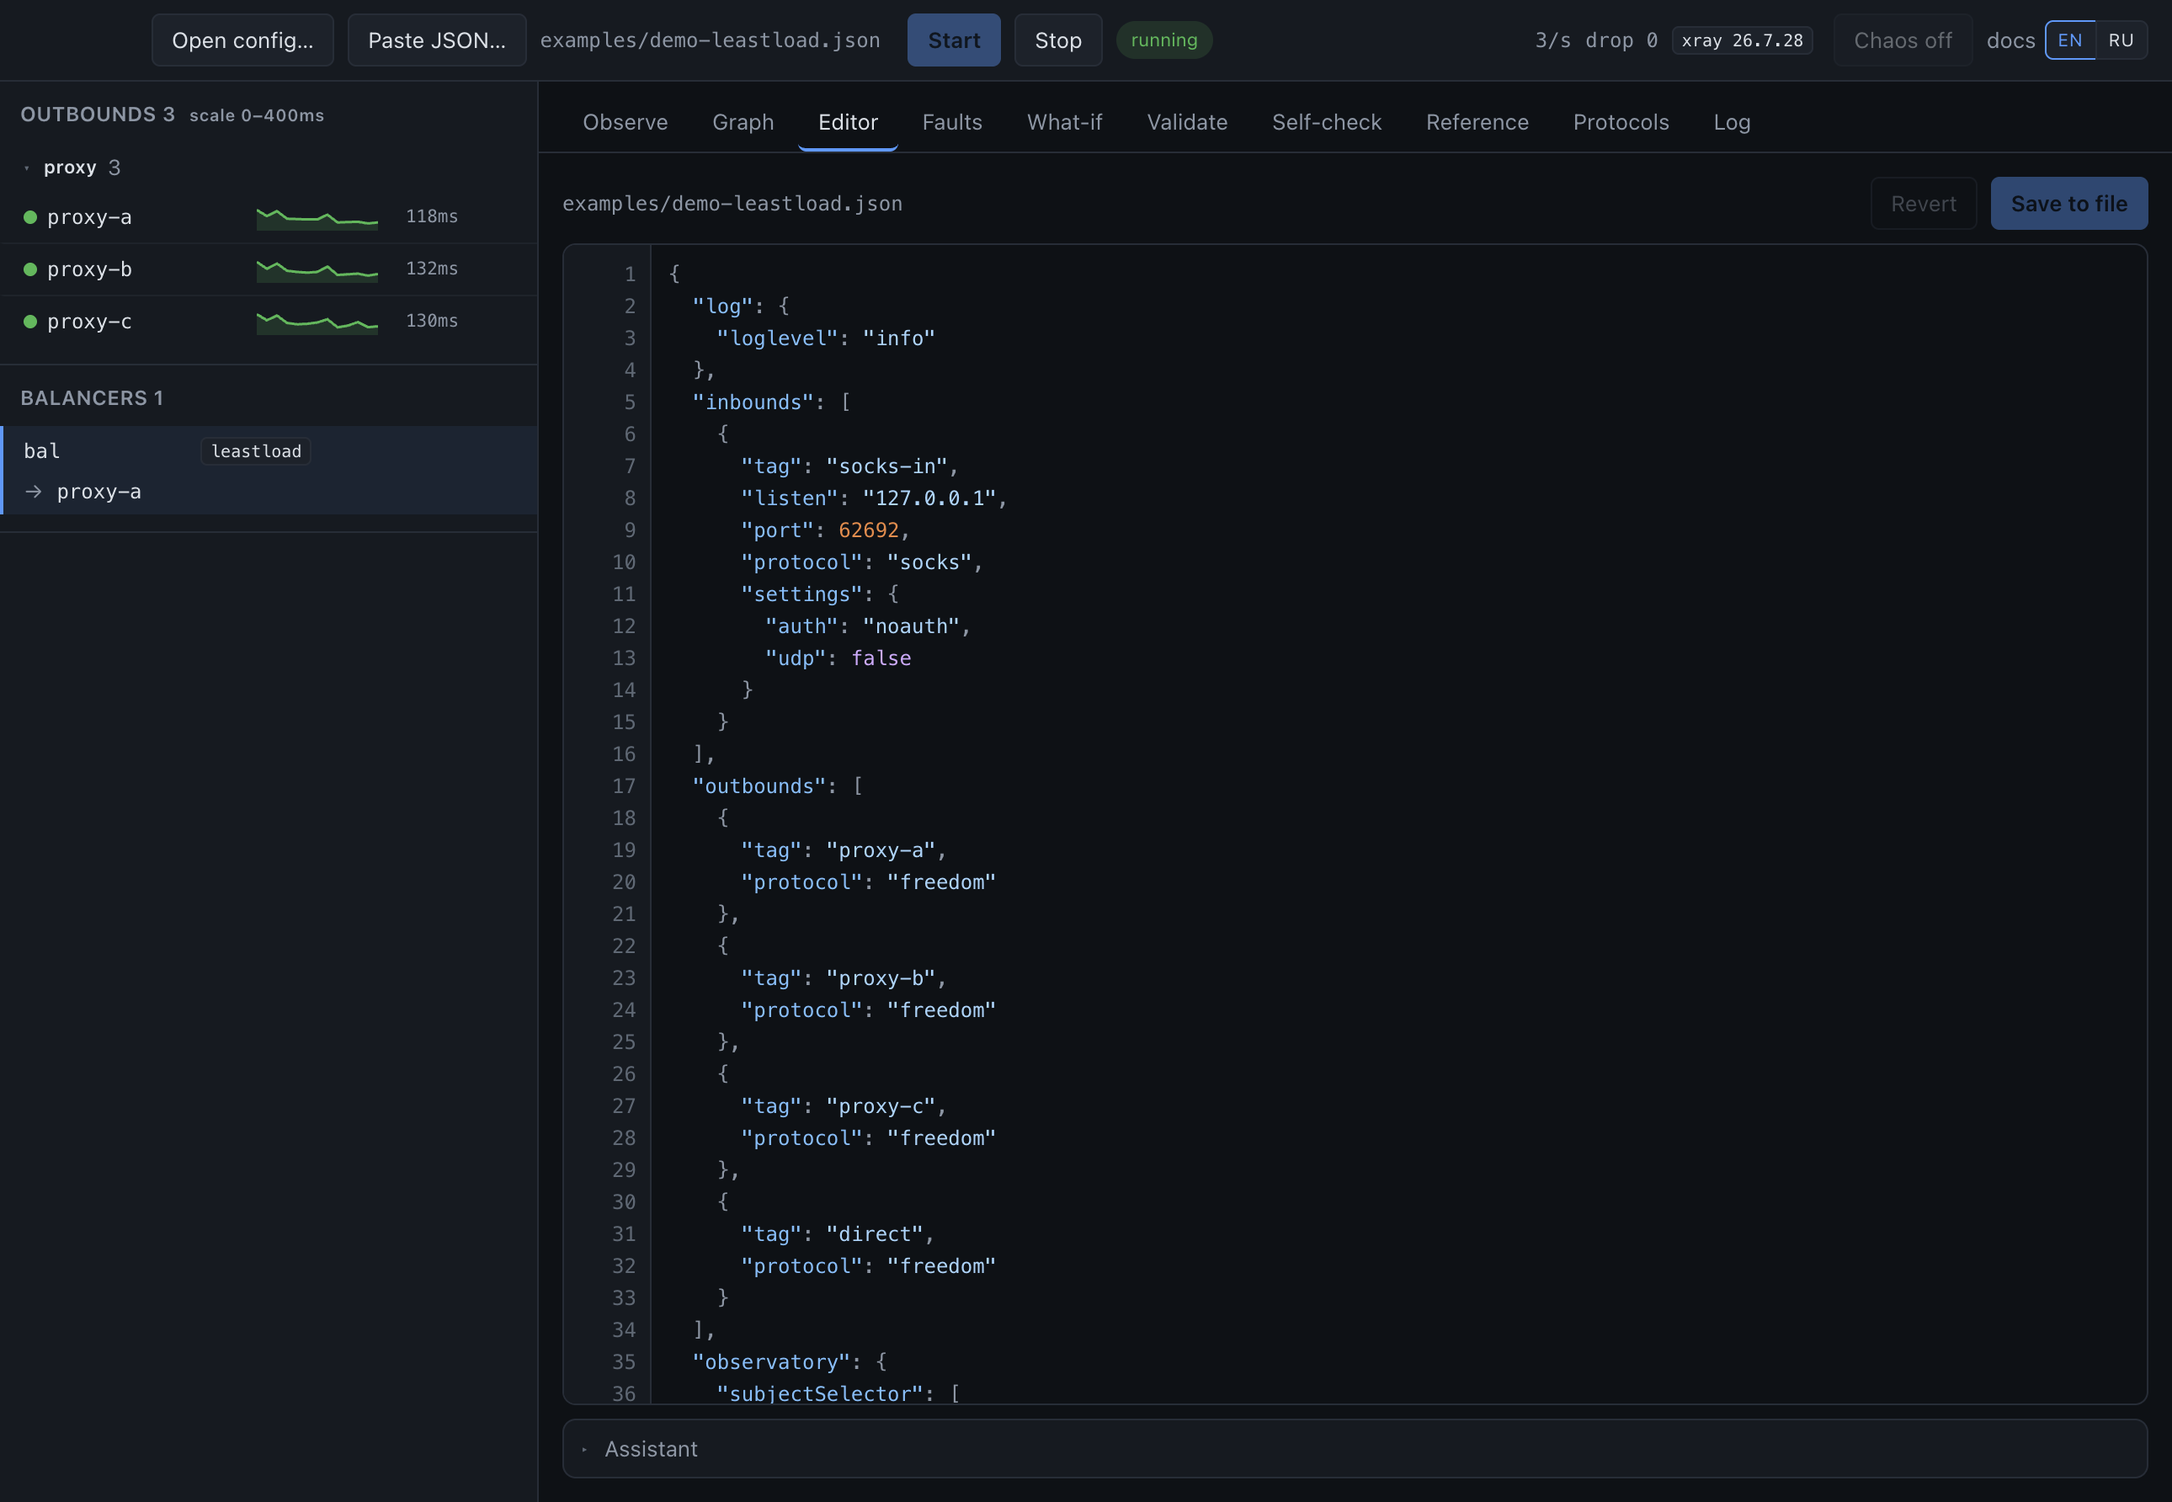
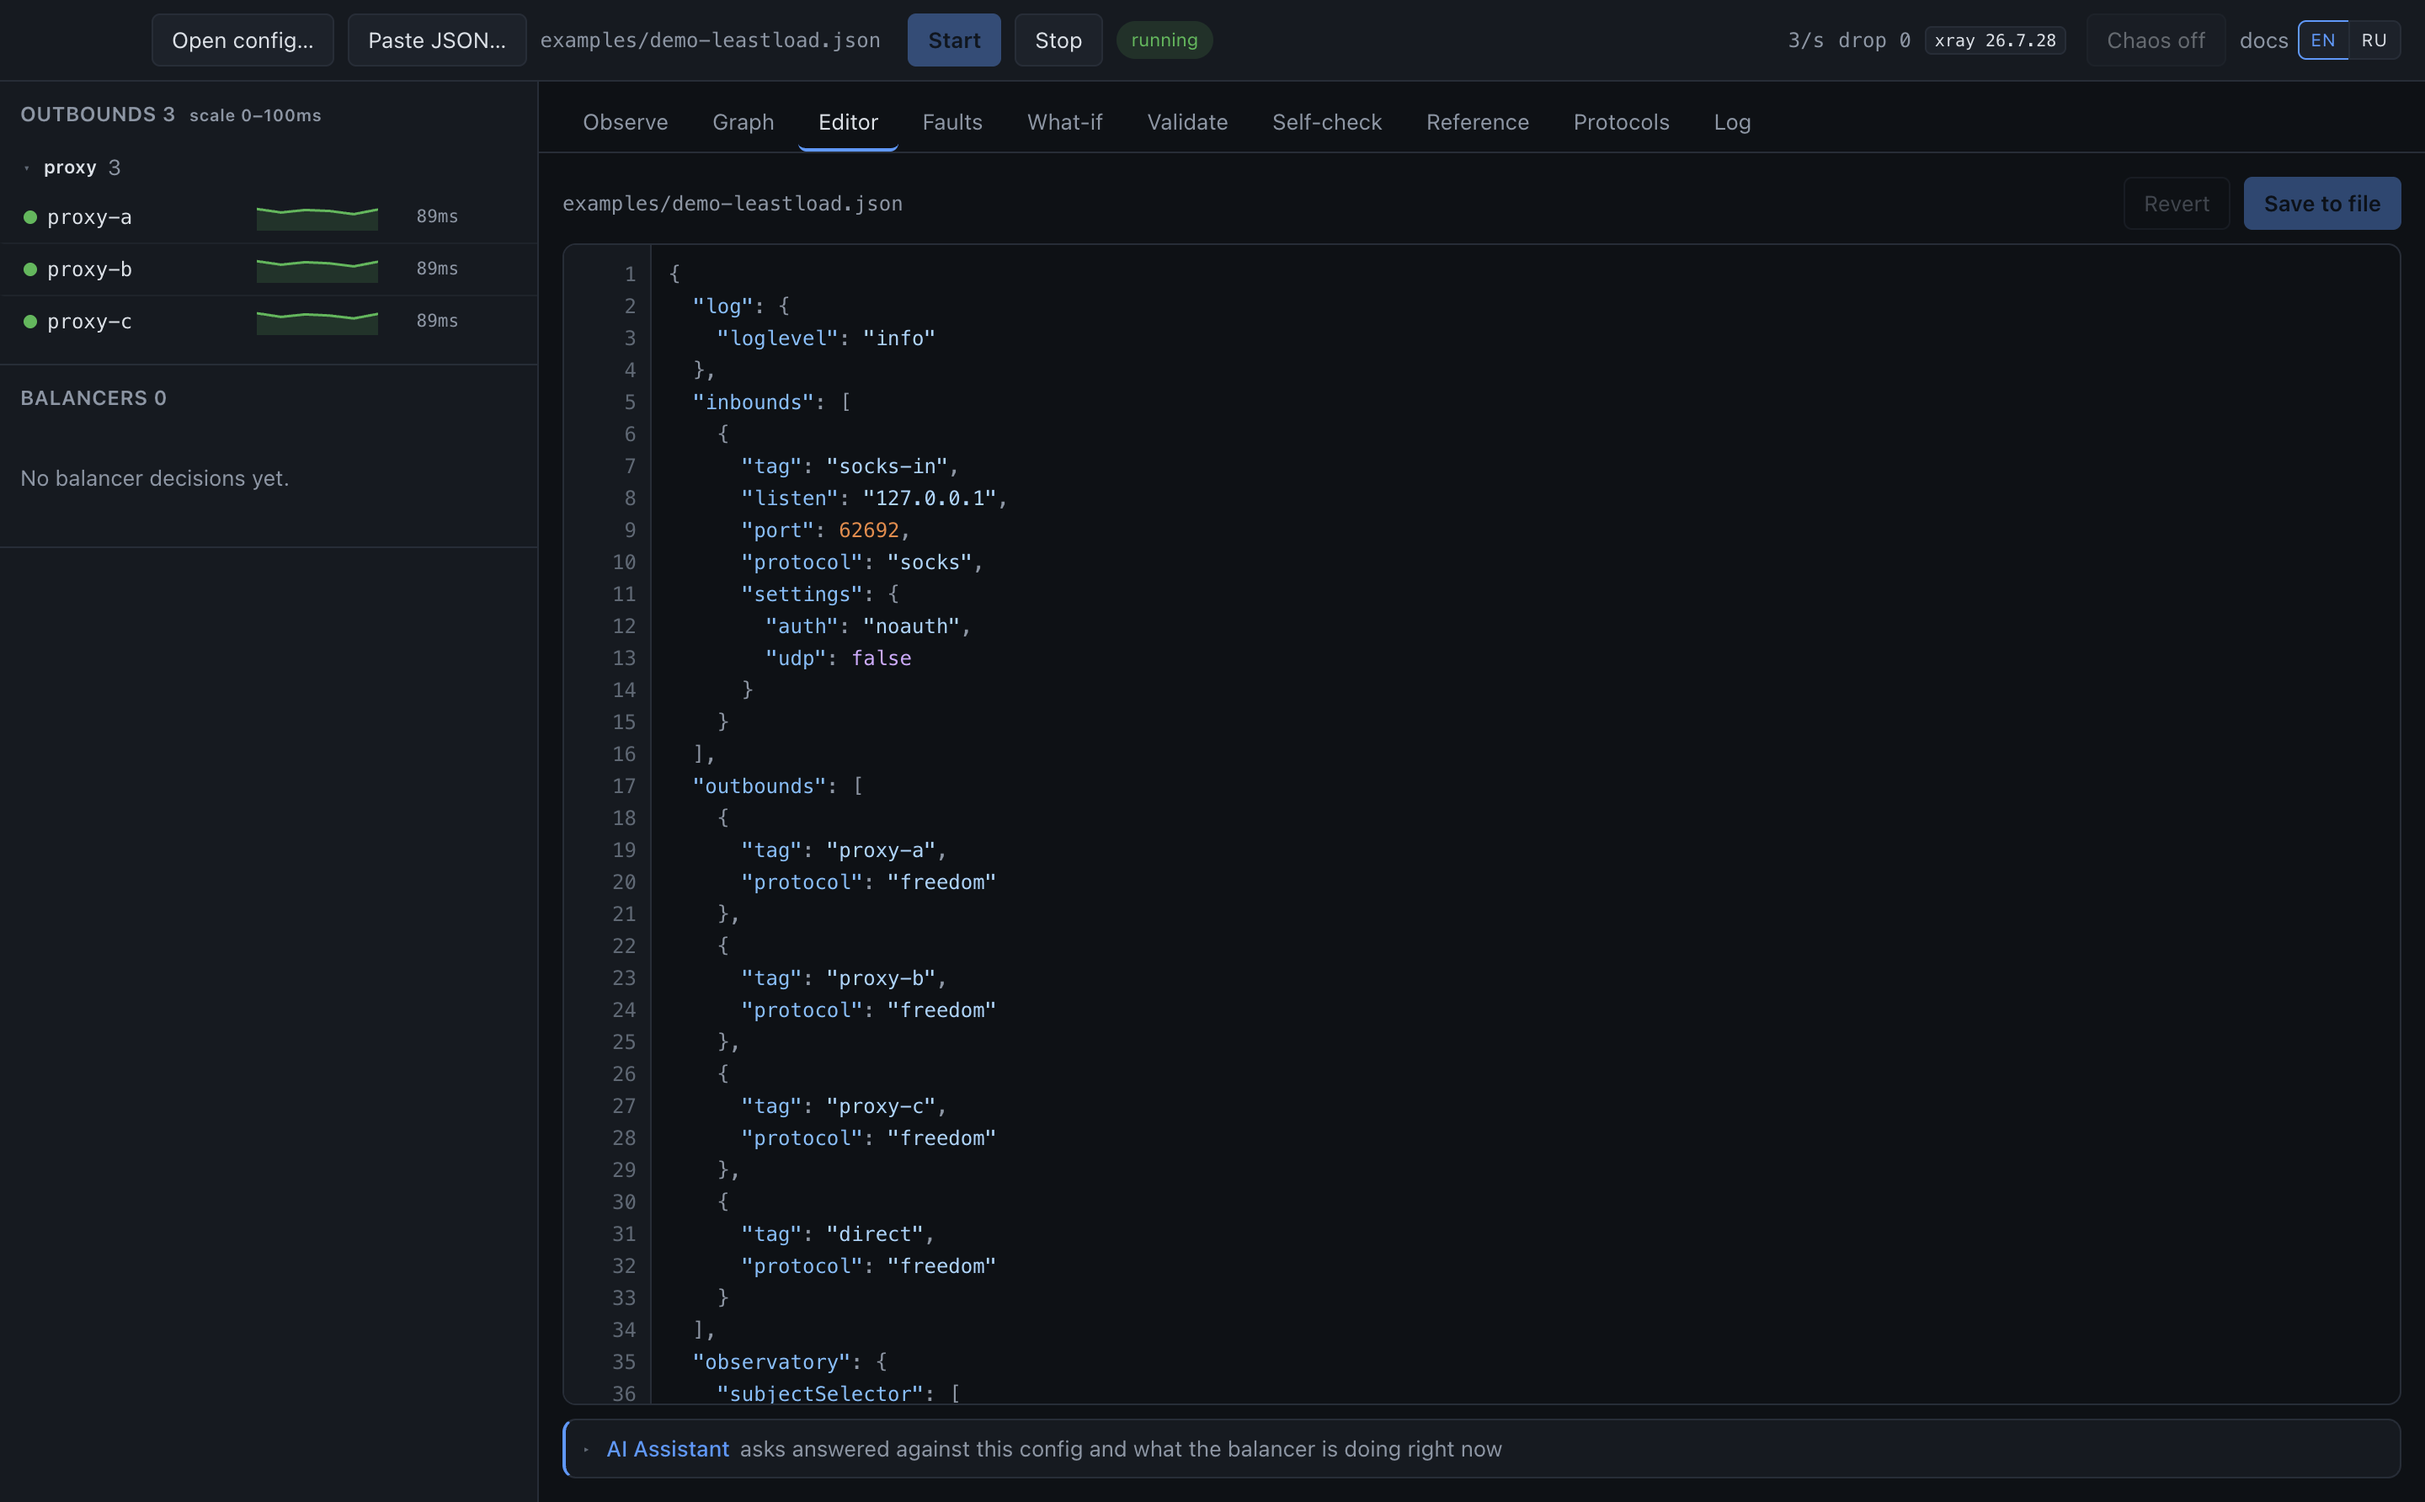
Call it AI Assistant, and make it look like something you can open
Collapsed, the panel was a row of dim grey reading "▸ Assistant" along the bottom of the
Editor — directly under a tall block of monospace, which is the easiest place in the
window for a row to be read as a footer and never clicked. It stays collapsed by
default, so for anyone who did not click it the feature did not exist.

It now carries an accent edge and an accented name while closed, and says what it is FOR
rather than only what it is called: it already holds the config in front of you and the
live state — which outbounds the observatory calls alive, their deviation, why the
balancer rejected each candidate, the faults you have armed. That is the part a name
cannot carry, and it is the reason to open it: the questions people actually have are
answerable without pasting anything anywhere.

Opening it drops both the edge and the accent. Inside, the panel is the subject and does
not need to advertise. A "needs an API key" chip appears only when there is no key, so
someone who has one is told nothing.

The tour in both READMEs now describes it too. It was mentioned only in the privacy
section, where it appears as a caveat about outbound traffic — which is a strange way to
learn that a feature exists.

Also traced: the value a shot script returns. A capture that lands on the wrong panel
was indistinguishable from one whose script threw, and both look like a correct
screenshot of something else — which is how three attempts at re-capturing the Editor
[…]

diff --git a/app/src/renderer/src/panels/AiChat.tsx b/app/src/renderer/src/panels/AiChat.tsx
@@ -164,11 +164,25 @@ export function AiChat({
 
   return (
     <section className={`ai ${open ? 'open' : ''}`}>
+      {/* Collapsed, this bar is the only thing that says the assistant exists, so it
+          says what the assistant is FOR rather than only what it is called. A row
+          reading "▸ Assistant" in dim grey is indistinguishable from a section nobody
+          needs to open, and this one is worth opening precisely because of the part a
+          name cannot carry: it already has the config and the live probe results, so
+          the questions people actually have are answerable without pasting anything. */}
       <button className="ai-head" onClick={() => setOpen((v) => !v)}>
         <span className="caret">{open ? '▾' : '▸'}</span>
-        <span>Assistant</span>
+        <span className="ai-title">AI Assistant</span>
+        {!open && (
+          <span className="ai-pitch tiny">
+            asks answered against this config and what the balancer is doing right now
+          </span>
+        )}
         {!open && turns.length > 0 && <span className="chip tiny">{turns.length}</span>}
         <span className="spacer" />
+        {/* The state, not an advertisement. Someone who has no key needs to know that
+            opening this leads to entering one; someone who has is told nothing. */}
+        {!open && hasKey === false && <span className="chip tiny">needs an API key</span>}
         {open && (
           <span className="tiny faint">
             {Math.round(contextSize / 1000)}k chars of context

diff --git a/app/src/renderer/src/styles.css b/app/src/renderer/src/styles.css
@@ -1104,6 +1104,18 @@ button.ghost.on { border-color: var(--bad); color: var(--bad); }
 }
 
 .ai-head:hover { color: var(--fg); }
+
+/* Closed, the bar carries an accent edge and an accented name. It sits at the bottom of
+   the Editor, under a tall block of monospace, which is the easiest place in the window
+   for a dim grey row to be read as a footer and never clicked. Opening it removes both:
+   once you are inside, the panel is the subject and does not need to advertise. */
+.ai:not(.open) { border-left: 2px solid var(--accent); }
+.ai:not(.open) .ai-title { color: var(--accent); }
+.ai-title { font-weight: 500; }
+.ai-pitch { color: var(--fg-dim); }
+/* The pitch is the first thing to go when the panel is narrow: it explains, and the
+   name plus the caret still work without it. */
+@media (max-width: 900px) { .ai-pitch { display: none; } }
 .ai-body { display: flex; flex-direction: column; gap: 8px; min-height: 0; padding: 0 10px 10px; }
 .ai-bar { align-items: center; display: flex; flex-wrap: wrap; gap: 8px; }
 .ai-bar select { font-size: 11px; padding: 3px 6px; }

diff --git a/app/src/main/index.ts b/app/src/main/index.ts
@@ -122,7 +122,13 @@ function createWindow(): BrowserWindow {
       await new Promise((r) => setTimeout(r, Number(process.env['XRAYSTUDIO_SHOTS_WARMUP'] ?? 9000)))
       for (const step of steps) {
         try {
-          if (step.js) await w.webContents.executeJavaScript(step.js)
+          if (step.js) {
+            // The result goes to the trace. A capture that lands on the wrong panel is
+            // otherwise indistinguishable from one whose script threw, and both look
+            // like a correct screenshot of something else.
+            const r: unknown = await w.webContents.executeJavaScript(step.js)
+            if (r !== undefined) trace(`shot-js returned: ${JSON.stringify(r)}`)
+          }
           await new Promise((r) => setTimeout(r, step.delay ?? 900))
           writeFileSync(step.file, (await w.webContents.capturePage()).toPNG())
           trace(`captured ${step.file}`)

diff --git a/README.md b/README.md
@@ -270,6 +270,19 @@ something.
 
 Comments and trailing commas are accepted, here and everywhere else in the tool.
 
+**AI Assistant** sits along the bottom of this tab, collapsed until you open it. It is
+worth knowing about because of what it already has rather than what it is: the config in
+front of you *and* the live state — which outbounds the observatory calls alive, their
+deviation, why the balancer rejected each candidate, the faults you have armed. So
+"why is nothing being selected?" or "this outbound is never picked — why?" are
+answerable without pasting anything anywhere.
+
+It stays inert until you enter an API key of your own, for Claude or ChatGPT. Before
+sending, it lists what it will include, and it can replace UUIDs, passwords and Reality
+keys with markers of the same length — the model still sees that the field is there and
+well-formed. The key is encrypted with your OS keychain and kept in the main process;
+the window never sees it.
+
 ### What-if — asking without touching anything
 
 ![The What-if tab](docs/img/whatif.png)
